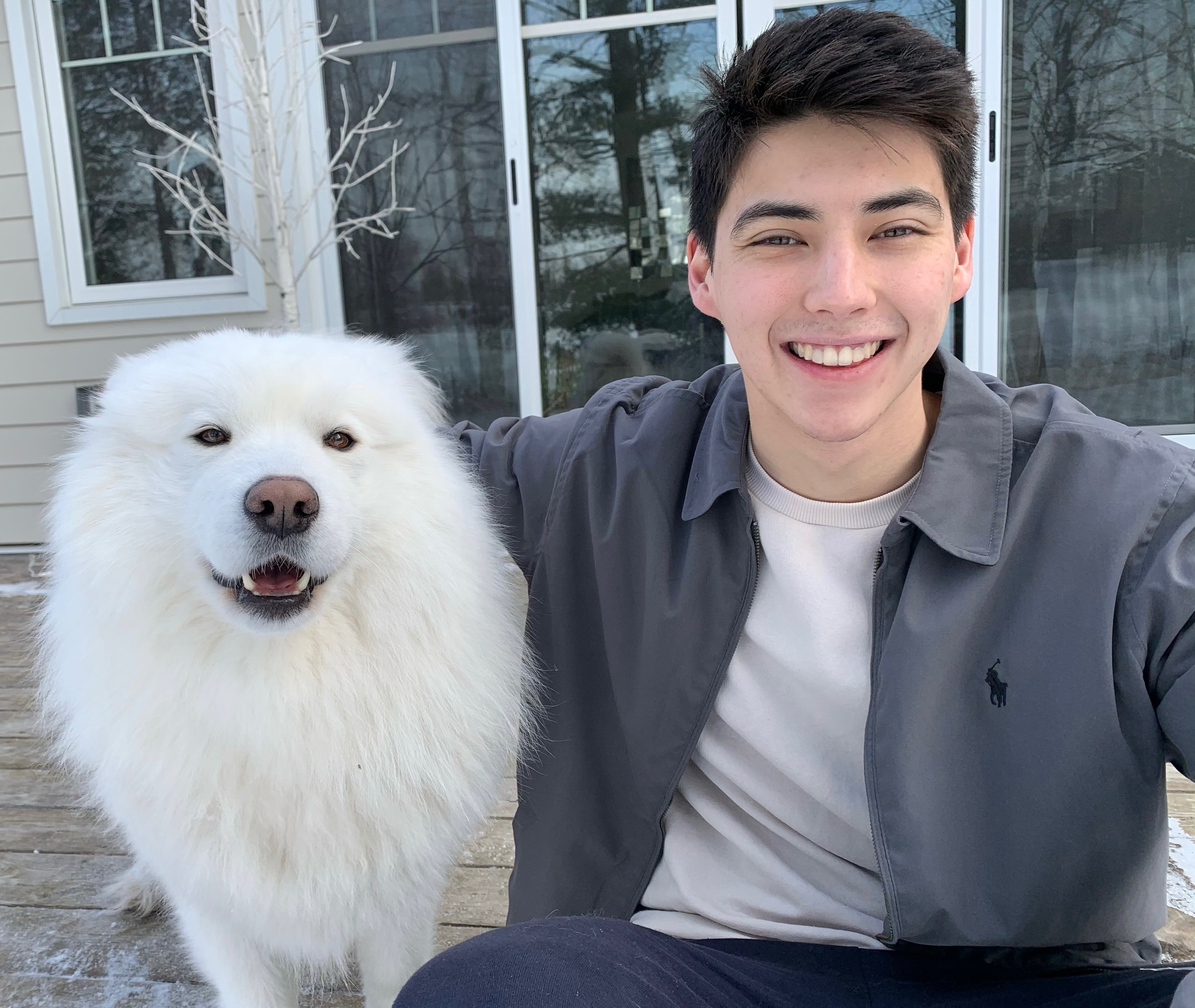
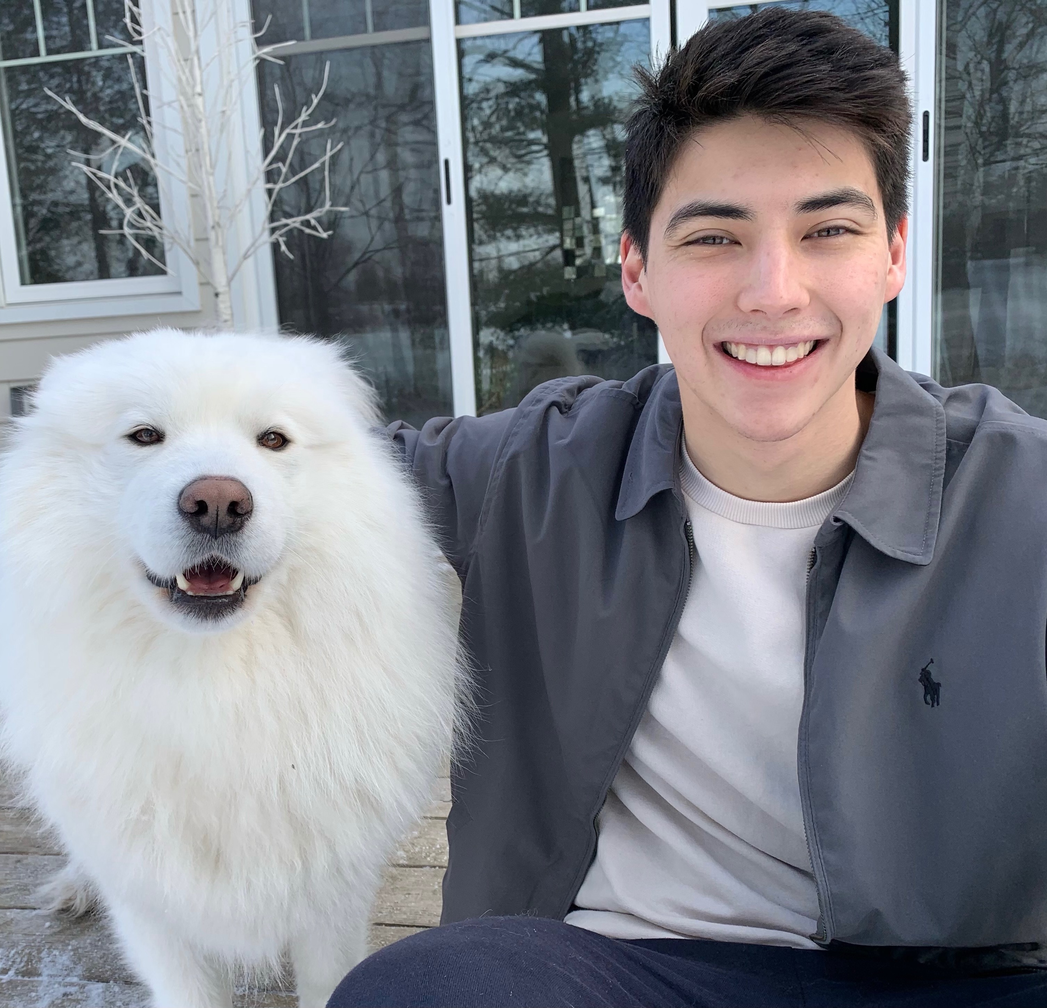
adding skills o_o

diff --git a/index.html b/index.html
@@ -30,20 +30,19 @@
                 <img src="assets/images/me.jpeg" class="img-me">
             </div>
             <div class="col">
-                <h1 class="banner-text" style="font-family: sans-serif; font-weight: 550;"><small>Hi there 👋  I'm</small>
+                <h1 class="banner-text" style="font-weight: 550;"><small>Hi there 👋  I'm</small>
                 Edward Burns.
                 </h1>
-                <h2 class="sub-name-deets"> Product Manager. Software Engineer. Creator. </h2><br><br>
+                <h2 class="sub-name-deets"> Product Manager and Software Developer </h2><br><br>
                 <h4 class="sub-deets"> Management Engineering Student @ University of Waterloo </h4>
                 <h5 class="sub-deets"> Graduating 2023 </h5>
                 <div class="socials col-sm-4">
-                    <a href="https://github.com/EdwardBurns10" class="fa fa-github row fa-lg"></a>
-                    <a href="https://www.linkedin.com/in/edward-burns-789b09177/" class="fa fa-linkedin row fa-lg"></a>
                     <a href="mailto: edward.burns@uwaterloo.ca" class="fa fa-envelope row fa-lg"></a>
+                    <a href="https://www.linkedin.com/in/edward-burns-789b09177/" class="fa fa-linkedin row fa-lg"></a>
+                    <a href="https://github.com/EdwardBurns10" class="fa fa-github row fa-lg"></a>
                 </div>
             </div>
         </div>
-        
       </div>
     </div>
   </section>
@@ -52,6 +51,8 @@
 	<div class="content-main pt-lg-5 pt-md-3 pb-0">
 		<div class="container">
             <div class="col content-left mt-lg-0 mt-5 ">
+                <h3 class="head-title sub-title about">ABOUT ME</h3>
+                <hr><br>
                 <h3>I love technology, have a strong interest in the business side of innovation and am eager to apply my technical and communication skills to find optimal solutions for users.</h3><br>
                 <p>As a 4th year engineering student at the University of Waterloo, I am developing expertise in finding solutions to complex issues at the intersection of technology, business and design. <br><br> From my 5 internships, I gained valuable experience across various technical positions (e.g. Product Manager, Software Developers etc.) and discovered my passion for product management. My work experience and education have given me a better understanding of what it takes to develop products and bring new ideas to life.</p>
             </div>
@@ -59,10 +60,11 @@
 	</div>
 </div>
 
-
+<!-- EXPERIENCE -->
 <div class="w3l-open-block-services">
   <div class="container">
-      <h3 class="head-title sub-title">Work Experiences</h3>
+      <h3 class="head-title sub-title">WORK EXPERIENCE</h3>
+      <hr>
       <div class="row mt-5 pt-3">
         <div class="col-lg-4 col-md-6 mt-md-0 mt-5 pt-md-0 pt-3">
             <div class="card text-center">
@@ -71,7 +73,8 @@
                 </div>
                 <h4 class="mission">BlackBerry</h4>
                 <h4 class="mission" style="font-size: 15px; margin-top: 5px; font-weight: normal;">Product Manager IVY Platform</h4>
-                <ul class="mission" style="text-align: left; margin-top: 15px; ">
+                <p class="used" style="margin-top: 10px;">Jan – Apr 2022</p>
+                <ul class="mission job-deets" style="text-align: left; margin-top: 15px; ">
                   <li class="mission" >Conducted competitive intelligence research, used defined value propositions to determine market viability against competitors’ products.</li>
                   <li class="mission" style="margin-top: 10px;">Documented key product artifacts and created a comprehensive roadmap of development and progression to align stakeholders around the product strategy and vision. </li>
                   <li class="mission" style="margin-top: 10px;">Developed structured Jira workflows streamlining the product requirement intake process by 20%.</li>
@@ -89,8 +92,8 @@
                   </div>
                   <h4 class="mission">TD Bank</h4>
                   <h4 class="mission" style="font-size: 15px; margin-top: 5px; font-weight: normal;">Software Developer Marketing Division</h4>
-                  <!-- <p class="used" style="margin-top: 10px;">May – Aug 2021</p> -->
-                  <ul class="mission" style="text-align: left; margin-top: 15px; ">
+                  <p class="used" style="margin-top: 10px;">May – Aug 2021</p>
+                  <ul class="mission job-deets" style="text-align: left; margin-top: 15px; ">
                     <li class="mission" >Developed a PySpark feature for users to program more efficiently in a user-friendly local environment and wrote supporting technical documentation.</li>
                     <li class="mission" style="margin-top: 10px;">Developed automated data pipeline features to improve user experience (UX) for internal clients. </li>
                     <li class="mission" style="margin-top: 10px;">Refactored code to improve testability allowing for better readability and quicker updates. </li>
@@ -106,8 +109,8 @@
                   </div>
                   <h4 class="mission">Red Canari</h4>
                   <h4 class="mission" style="font-size: 15px; margin-top: 5px; font-weight: normal;">Full Stack Software Developer</h4>
-                  <!-- <p class="used" style="margin-top: 10px;">Sept – Dec 2020</p> -->
-                  <ul class="mission" style="text-align: left; margin-top: 15px; ">
+                  <p class="used" style="margin-top: 10px;">Sept – Dec 2020</p>
+                  <ul class="mission job-deets" style="text-align: left; margin-top: 15px; ">
                     <li class="mission" style="margin-top: 10px;">Developed a proprietary ReactJS cyber security web application product to manage, process and display user data. </li>
                     <li class="mission" style="margin-top: 10px;">Stored data and communicated to the frontend through an API built with AWS. Built a Chrome-Extension version of the app for easier user accessibility.</li>
                     <li class="mission" style="margin-top: 10px;">Created a database login feature to authenticate Microsoft users via SSO to simplify login.</li>
@@ -122,10 +125,12 @@
                   </div>
                   <h4 class="mission">Bank of Canada</h4>
                   <h4 class="mission" style="font-size: 15px; margin-top: 5px; font-weight: normal;">Cyber Security Analyst</h4>
-                  <!-- <p class="used" style="margin-top: 10px;">Jan – Apr 2020</p> -->
-                  <ul class="mission" style="text-align: left; margin-top: 15px; ">
-                    <li class="mission" style="margin-top: 10px;">Researched and analyzed capabilities of threat actors and attack vectors to identify potential vulnerabilities against current security coverage. </li>
-                    <li class="mission" style="margin-top: 10px;">Wrote and modified Python scripts to build-on and improve open-source software.</li>
+                  <p class="used" style="margin-top: 10px;">Jan – Apr 2020</p>
+                  <ul class="mission job-deets" style="text-align: left; margin-top: 15px; ">
+                    <li class="mission" style="margin-top: 10px;">Researched and identified the leading dangerous and relevant global Advanced Persistent Threat groups. Analyzed capabilities of threat actors and attack vectors to identify potential vulnerabilities. </li>
+                    <li class="mission" style="margin-top: 10px;">Wrote and modified Python scripts to improve open-source software.</li>
+                    <li class="mission" style="margin-top: 10px;">Used VBA and macros to optimize the filtering process of excel files containing 750,000+ security vulnerability logs.</li>
+                    <li class="mission" style="margin-top: 10px;">Specified and procured virtual machines in Azure, installed and tested open source software in Linux.</li>
                   </ul>
                  
               </div>
@@ -137,7 +142,8 @@
                   </div>
                   <h4 class="mission">Statistics Canada</h4>
                   <h4 class="mission" style="font-size: 15px; margin-top: 5px; font-weight: normal;">Data Process Engineer and Analyst</h4>
-                  <ul class="mission" style="text-align: left; margin-top: 15px; ">
+                  <p class="used" style="margin-top: 10px;">May – Aug 2019</p>
+                  <ul class="mission job-deets" style="text-align: left; margin-top: 15px; ">
                     <li class="mission" >Modernized data production and verification practices to streamline operations and automate processes.</li>
                     <li class="mission" style="margin-top: 10px;">Interviewed users to gather needs on data-handling procedures to refine system requirements and specifications.</li>
                     <li class="mission" style="margin-top: 10px;">Analyzed financial data, constructed statistical data tables and graphs, prepared written analyses, presented results, and made recommendations to improve data products. </li>
@@ -147,12 +153,56 @@
       </div>
   </div>
 </div>
+<!-- END EXPERIENCE -->
+
+<!-- SKILLS -->
+<div class="w3-services py-5" id="services">
+    <div class="container py-lg-3">
+        <div class="title-section">
+            <h3 class="main-title-w3 sub-title">SKILLS</h3>
+            <hr>
+        </div>
+        <div class="row w3-services-grids mt-lg-5 mt-4">
+            <div class="col-lg mt-lg-0 mt-5">
+                <div class="row w3-icon-grid-gap1">
+                    <div class="col-md-6 col-sm-6 w3-icon-grid1 skills-card">
+                        <h3 class="skills-head">Product Discovery</h3>
+                        <p>Have experience engaging with clients to discover pain points and current processes to be able to create catered solutions.</p>
+                    </div>
+                    <div class="col-md-6 col-sm-6 w3-icon-grid1 skills-card">
+                        <h3 class="skills-head">Product Scoping</h3>
+                        <p>Able to scope product requirements and execute using tools such as JIRA.</p>
+                    </div>
+                    <div class="col-md-6 col-sm-6 w3-icon-grid1 skills-card">
+                        <h3 class="skills-head">Solutions Architecture</h3>
+                        <p>Experience designing elegant solutions and implementing using appropriate technologies.</p>
+                    </div>
+                    <div class="col-md-6 col-sm-6 w3-icon-grid1 skills-card">
+                        <h3 class="skills-head">Product Roadmap</h3>
+                        <p>Experience creating comprehensive product roadmaps aligned with long-term vision.</p>
+                    </div>
+                    <div class="col-md-6 col-sm-6 w3-icon-grid1 skills-card">
+                        <h3 class="skills-head">Product Design</h3>
+                        <p>Passionate about UX and experienced designing user interfaces and illustrating workflows using prototyping tools (Figma).</p>
+                    </div>
+                    <div class="col-md-6 col-sm-6 w3-icon-grid1 skills-card">
+                        <h3 class="skills-head">Development</h3>
+                        <p>Considerable experience with Agile development and the Software Development Life Cycle.</p>
+                    </div>
+                </div>
+            </div>
+        </div>
+    </div>
+</div>
+<!-- END SKILLS -->
+
 
 <!-- projects-->
-<section class="w3l-services-block-3">
-  <div class="features-main pb-5 pt-0 text-center container">
-    <h3 class="head-title sub-title">Side Projects</h3>
-    <p class="col content-left mt-lg-0 mt-5" >Below I have listed a few of the projects that I have worked on both for school projects as well as on my own time. I look forward to continuing to populate this page as the year goes on :) Visit my <a href="https://github.com/EdwardBurns10" class="link">github</a> for the source code of all my projects.</p>
+<section class="w3l-services-block-3 container">
+    <h3 class="head-title sub-title content-left">SIDE PROJECTS</h3>
+    <hr>
+    <p class="mt-lg-0 mt-5" >Below I have listed a few of the projects that I have worked on both for school projects as well as on my own time. I look forward to continuing to populate this page as the year goes on :) Visit my <a href="https://github.com/EdwardBurns10" class="link" target="_blank">github</a> for the source code of all my projects.</p>
+    <div class="features-main pb-5 pt-0 text-center container">
     <div class="container pb-lg-3">
       <div class="row features">
         <div class="col-lg-4 col-md-6 feature-grid">
@@ -204,15 +254,13 @@
   </div>
 </section>
 
-<!-- iphone home block -->
+
 <section class="w3l-blog py-5 text-center">
     <div class="container py-lg-5">
         <div class="row">
             <div class="col-lg-12">
-                <h3 style="margin-top: -100px;">Thanks for reading about me!</h3>
+                <h3 >Thanks for reading about me!</h3>
                 <h5 class="mt-3">Please feel free to reach out to me through email or LinkedIn.</h5>
-                
-               
             </div>
         </div>
     </div>
@@ -223,6 +271,13 @@
 <button onclick="topFunction()" id="movetop" class="editContent" title="Go to top">
   <span class="fa fa-angle-up"></span>
 </button>
+
+<script>
+    $('.card').click(function(){
+        $(this).toggleClass('expanded-card');
+    })
+</script>
+
 <script>
   // When the user scrolls down 20px from the top of the document, show the button
   window.onscroll = function () {
@@ -245,10 +300,6 @@
 </script>
 <!-- /move top -->
 
-<!-- common jquery -->
-<script src="assets/js/jquery-3.3.1.min.js"></script>
-<!-- //common jquery -->
-
 <!-- disable body scroll which navbar is in active -->
 <script>
   $(function () {
@@ -259,40 +310,26 @@
 </script>
 <!-- disable body scroll which navbar is in active -->
 
-
-<!-- for blog carousel slider -->
-<script src="assets/js/owl.carousel.js"></script>
 <script>
-  $(document).ready(function () {
-    var owl = $('.owl-carousel');
-    owl.owlCarousel({
-      stagePadding: 20,
-      margin: 15,
-      nav: false,
-      loop: false,
-      responsive: {
-        0: {
-          items: 1
-        },
-        600: {
-          items: 2
-        },
-        1000: {
-          items: 3
-        }
-      }
-    })
-  })
-</script>
-<!-- //for blog carousel slider -->
+    var coll = document.getElementsByClassName("collapsible");
+    var i;
 
+    for (i = 0; i < coll.length; i++) {
+        coll[i].addEventListener("click", function() {
+            this.classList.toggle("active");
+            var content = this.nextElementSibling;
+            if (content.style.maxHeight){
+                content.style.maxHeight = null;
+            } else {
+                content.style.maxHeight = content.scrollHeight + "px";
+            } 
+        });
+    }
+</script>
 
 <!-- stats number counter-->
 <script src="assets/js/jquery.waypoints.min.js"></script>
 <script src="assets/js/jquery.countup.js"></script>
-<script>
-  $('.counter').countUp();
-</script>
 <script src="https://cdn.jsdelivr.net/npm/bootstrap@4.1.3/dist/js/bootstrap.min.js" integrity="sha384-ChfqqxuZUCnJSK3+MXmPNIyE6ZbWh2IMqE241rYiqJxyMiZ6OW/JmZQ5stwEULTy" crossorigin="anonymous"></script>
 <script src="https://code.jquery.com/jquery-3.3.1.slim.min.js" integrity="sha384-q8i/X+965DzO0rT7abK41JStQIAqVgRVzpbzo5smXKp4YfRvH+8abtTE1Pi6jizo" crossorigin="anonymous"></script>
 <script src="https://cdn.jsdelivr.net/npm/popper.js@1.14.3/dist/umd/popper.min.js" integrity="sha384-ZMP7rVo3mIykV+2+9J3UJ46jBk0WLaUAdn689aCwoqbBJiSnjAK/l8WvCWPIPm49" crossorigin="anonymous"></script>

diff --git a/assets/css/main.css b/assets/css/main.css
@@ -3,10 +3,18 @@
     --compl-bg: #F3F8F5;
     --main-text: #383838;
     --compl-text: #8FBC8F;
+    font-family: 'Segoe UI', Tahoma, Geneva, Verdana, sans-serif;
 }
 
 body{
     color: var(--main-text);
+}
+
+hr{
+    max-width: 5%;
+    border: 5px solid var(--compl-text);
+    border-radius: 5px;
+    margin-left:0;
 }
 
 .banner-info{
@@ -15,7 +23,7 @@ body{
 
 .img-me{
     border-radius: 50%;
-    width: 100%;
+    width: 90%;
     height: auto;
     overflow: hidden;
 }
@@ -83,12 +91,19 @@ body{
     color: var(--main-text);
     margin-bottom: 20px;
     transition: transform .5s;
+    /* max-height: 200px; */
+    /* overflow: hidden; */
 }
 
 .card:hover{
     background-color: var(--compl-bg);
     transform: scale(1.01);
+    /* cursor: pointer; */
 }
+
+/* .expanded-card{
+    max-height: 600px;
+} */
 
 .feature-title{
     color: var(--main-text);
@@ -106,7 +121,19 @@ body{
     margin-top: 3rem;
 }
 
+.about{
+    margin-top: 0px;
+}
+
 .link{
     color: var(--compl-text);
     font-weight: 700;
+}
+
+.skills-card{
+    margin-bottom: 10px;
+}
+
+.skills-head:hover{
+    color: var(--compl-text);
 }
